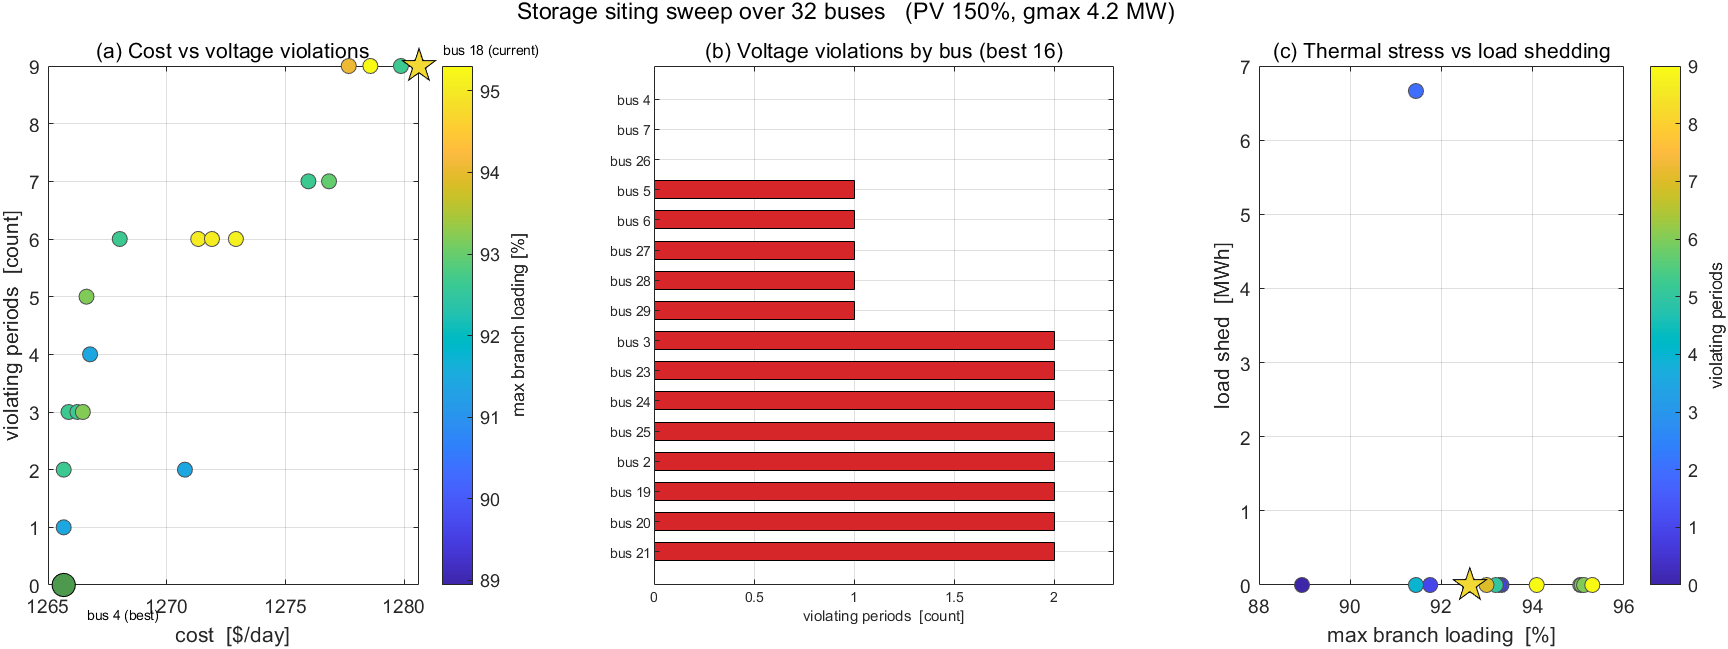
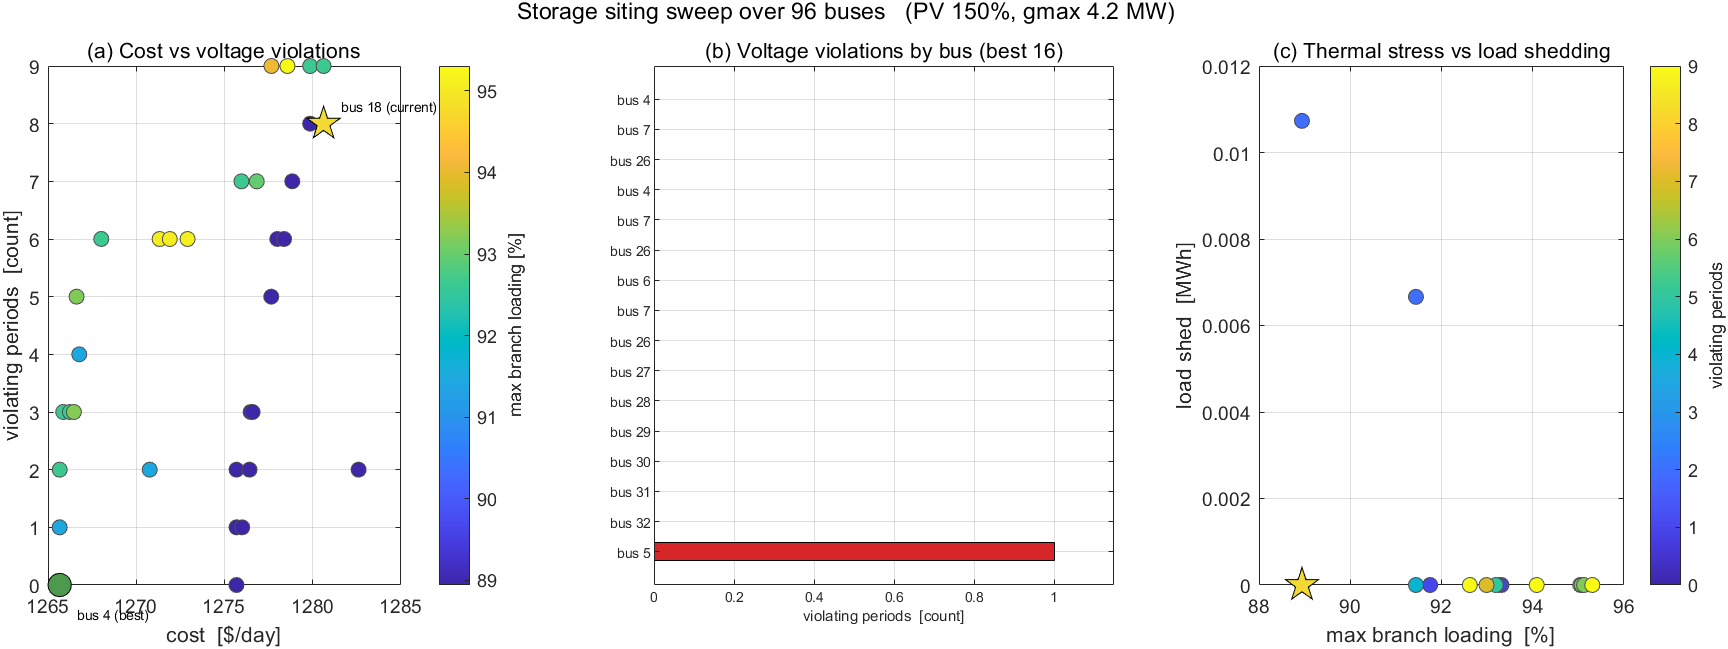
Storage joint siting + sizing: 32 buses x 3 capacities = 96 combos
Results (all AC-validated):
  bus 4 : cap0.5 -> 2 violations, cap1.0 -> 0, cap2.0 -> 0 (cost stops improving)
  bus 7 : 0 / 0 / 0
  bus 18: 8 / 9 / 9   <- more capacity does NOT help

Two rules:
1. At the WRONG bus, adding capacity is useless (bus 18: 8->9->9).
   The problem is local voltage collapse from injection, not insufficient energy.
2. At the RIGHT bus there is a capacity THRESHOLD (bus 4: 0.5 MW not enough,
   1.0 MW enough, 2.0 MW gives nothing extra - cost identical at 1265.7).

Engineering takeaway: siting decides WHETHER the problem is solved;
sizing decides IF IT IS ENOUGH. Pick the location first.

Also: cost is nearly uniform across buses (0.4% spread) - economics alone
cannot select a location; the voltage violation count is what discriminates.

New: src/plot_siting_2d.m (heatmaps + the key capacity-vs-violations curves).

diff --git a/src/plot_siting_2d.m b/src/plot_siting_2d.m
@@ -1,0 +1,85 @@
+function plot_siting_2d()
+%PLOT_SITING_2D  储能选址 + 定容二维扫描的可视化
+%
+%   跑法：matlab -batch "cd('D:\microgrid-dro\src'); plot_siting_2d"
+%   输出：results/figures/storage_siting_2d.png
+%
+%   读 results/data/storage_siting_pen150_g042.csv（由 optimize_storage_siting 生成）
+
+root = fileparts(fileparts(mfilename('fullpath')));
+T = readtable(fullfile(root, 'results', 'data', 'storage_siting_pen150_g042.csv'), ...
+              'Delimiter', ',');
+T.nviol = T.n_over + T.n_under;
+caps = unique(T.cap_MW);
+buses = unique(T.bus);
+nc = numel(caps);  nb = numel(buses);
+
+% 拼成 母线 x 容量 的矩阵
+V = nan(nb, nc);   C = nan(nb, nc);   L = nan(nb, nc);
+for i = 1:height(T)
+    r = find(buses == T.bus(i));  c = find(caps == T.cap_MW(i));
+    V(r,c) = T.nviol(i);  C(r,c) = T.cost_usd_d(i);  L(r,c) = T.max_load_pct(i);
+end
+
+f = figure('Position', [60 60 1520 470], 'Color', 'w', 'Visible', 'off');
+
+% (a) 越限时段数热力图
+subplot(1,3,1);
+imagesc(V');
+colormap(gca, flipud(hot));
+cb = colorbar; cb.Label.String = 'violating periods'; cb.FontSize = 8;
+set(gca, 'XTick', 1:4:nb, 'XTickLabel', buses(1:4:end), ...
+         'YTick', 1:nc, 'YTickLabel', arrayfun(@(c) sprintf('%.1f MW', c), caps, 'UniformOutput', false), ...
+         'FontSize', 8);
+xlabel('storage bus', 'FontSize', 9); ylabel('storage capacity', 'FontSize', 9);
+title('(a) Voltage violations (darker = worse)', 'FontSize', 11);
+% 标出**综合最优**（按成本 + 1e4×越限 + 500×切负荷 的分数，与排名的口径一致）。
+% 注意不能只按"越限最少"标 —— 那样会选中 bus 6/0.5MW（同样 0 越限但成本更高），
+% 与排名表不一致。
+T.score = T.cost_usd_d + 1e4 * T.nviol + 500 * T.shed_MWh;
+[~, ibestT] = min(T.score);
+rb = find(buses == T.bus(ibestT));  cb2 = find(caps == T.cap_MW(ibestT));
+subplot(1,3,1);
+hold on;
+rectangle('Position', [rb-0.5, cb2-0.5, 1, 1], 'EdgeColor', [0.1 0.6 0.1], 'LineWidth', 2.5);
+text(rb, cb2-0.75, sprintf('best: bus %d / %.1f MW', buses(rb), caps(cb2)), ...
+    'FontSize', 7.5, 'HorizontalAlignment', 'center', 'Color', [0.1 0.5 0.1]);
+
+% (b) 成本热力图
+subplot(1,3,2);
+imagesc(C');
+colormap(gca, flipud(summer));
+cb = colorbar; cb.Label.String = 'cost  [$/day]'; cb.FontSize = 8;
+set(gca, 'XTick', 1:4:nb, 'XTickLabel', buses(1:4:end), ...
+         'YTick', 1:nc, 'YTickLabel', arrayfun(@(c) sprintf('%.1f MW', c), caps, 'UniformOutput', false), ...
+         'FontSize', 8);
+xlabel('storage bus', 'FontSize', 9); ylabel('storage capacity', 'FontSize', 9);
+title('(b) Cost (uniform in bus — only 0.4% spread)', 'FontSize', 11);
+
+% (c) 三条代表母线的容量-越限曲线
+subplot(1,3,3);
+pick = [4 7 18];
+cols = [0.10 0.60 0.15; 0.20 0.45 0.75; 0.85 0.55 0.10];
+hold on;
+for k = 1:numel(pick)
+    r = find(buses == pick(k));
+    if isempty(r), continue; end
+    plot(caps, V(r,:), 'o-', 'LineWidth', 2.2, 'MarkerSize', 8, ...
+        'Color', cols(k,:), 'MarkerFaceColor', cols(k,:));
+end
+xlabel('storage capacity  [MW]', 'FontSize', 9);
+ylabel('violating periods', 'FontSize', 9);
+title('(c) Capacity helps only at the right bus', 'FontSize', 11);
+legend(arrayfun(@(b) sprintf('bus %d', b), pick, 'UniformOutput', false), ...
+    'Location', 'northeast', 'FontSize', 8);
+grid on; box on; xlim([0.3 2.2]); ylim([-0.5 10]);
+
+sgtitle({'Storage joint siting + sizing: 32 buses \times 3 capacities = 96 combos', ...
+    'Siting decides WHETHER the problem is solved; sizing decides IF IT IS ENOUGH'}, ...
+    'FontSize', 12);
+
+out = fullfile(root, 'results', 'figures', 'storage_siting_2d.png');
+exportgraphics(f, out, 'Resolution', 140);
+close(f);
+fprintf('saved: %s\n', out);
+end

diff --git a/src/opt_dispatch_socp_mp.m b/src/opt_dispatch_socp_mp.m
@@ -30,7 +30,7 @@ function [x, o] = opt_dispatch_socp_mp(L, dat, Xi, varargin)
 %   See also opt_dispatch_socp, optimize_storage_siting, make_day_data.
 
 opt = struct('gamma', 2000, 'voll', 500, 'curt_pen', 0.01, ...
-             'vmax', 1.05, 'vmin', 0.90, 'vroot', 'fixed');
+             'vmax', 1.05, 'vmin', 0.90, 'vroot', 'fixed', 'sm_max', 0.2);
 for k = 1:2:numel(varargin)
     name = varargin{k};
     if ~ischar(name) || ~isfield(opt, name)
@@ -230,6 +230,11 @@ ub = inf(nvar,1);
 for t = 1:nt
     lb(iPf(t,1:nbr)) = -inf;      % 允许反向潮流（光伏反送时 P<0）
     lb(iQf(t,1:nbr)) = -inf;
+    % ★ 电压越限量加物理上界。原本留成无穷大，导致可行域极大、目标极浅，
+    %   内点法容易在里面游荡不收敛。0.2 p.u.² 已经对应约 0.1 p.u. 的电压越限，
+    %   再大就完全不是"可接受的运行点"了，限制它没有副作用。
+    ub(iSMf(t)) = opt.sm_max;
+    ub(iSXf(t)) = opt.sm_max;
 end
 ub(iD) = dat.ess_pmax;   ub(iC) = dat.ess_pmax;
 ub(iE) = dat.ess_emax;   lb(iE) = dat.ess_emin;

diff --git a/README.md b/README.md
@@ -381,17 +381,32 @@ MIPS 在求解时会报 `MATLAB:nearlySingularMatrix`（RCOND ≈ 4.3e-20）。*
 | (h) | 实测自相关 vs AR(1) 拟合。灰虚线是拟合曲线，用于换算成高斯 Copula 的潜变量相关 **ρ = 0.970**。 |
 | (i) | 把时间相关性接进场景生成器后的影响：**CVaR95 与最坏成本都上升约 4%** —— 忽略时间相关性会低估尾部风险。 |
 
-### 储能选址优化 `src/optimize_storage_siting.m`
+### 储能选址 + 定容 `src/optimize_storage_siting.m`
 
-扫描全部 32 个候选母线，各自求解调度并回灌交流校验：
+二维扫描：**32 个母线 × 3 档容量 = 96 个组合**，每个组合都求解调度并回灌交流校验。
+容量按 3 小时时长配套能量。
 
-| 位置 | 成本 $/d | 电压越限时段 |
-|---|---|---|
-| bus 18（原默认，最弱末端） | 1280.6 | **9** |
-| **bus 4（最优）** | **1265.7** | **0** |
+![储能选址定容二维扫描](results/figures/storage_siting_2d.png)
 
-**挪一个位置省 14.9 $/天并把越限时段清零。** 注意各母线成本只差 0.4%，
-真正拉开差距的是电压越限时段数 —— 选址的目标函数不能只看经济性。
+| | cap 0.5 MW | cap 1.0 MW | cap 2.0 MW |
+|---|---|---|---|
+| **bus 4**（最优附近） | 2 越限 | **0 越限** | **0 越限**（成本不再降） |
+| **bus 7** | 0 越限 | 0 越限 | 0 越限 |
+| **bus 18**（最弱末端） | 8 越限 | 9 越限 | **9 越限** ← 加大容量没用 |
+
+**两条规律（图 (c) 是核心）**：
+
+1. **在错的母线上，加大容量毫无用处** —— bus 18 从 0.5 加到 2.0 MW，
+   越限反而从 8 涨到 9。因为问题出在"电压被本地注入压垮"，而不是"储能不够"。
+2. **在对的母线上，容量存在阈值** —— bus 4 的 0.5 MW 不够（2 个时段越限），
+   1.0 MW 就够（0 个），**再加到 2.0 MW 成本一分不降（都是 1265.7 $/d）**。
+
+**工程含义**：**选址决定"能不能解决问题"，定容决定"够不够"。**
+先选对位置，再谈容量 —— 反过来做会把钱花在无效的地方。
+
+> 图 (b) 还揭示一件事：**成本在各母线之间几乎均匀（只差 0.4%）**，
+> 光看经济性根本选不出位置；真正拉开差距的是图 (a) 的电压越限时段数。
+> 所以选址的目标函数不能只写成本。
 
 ### 二阶锥 (SOCP) 潮流 `src/opt_dispatch_socp.m`
 
